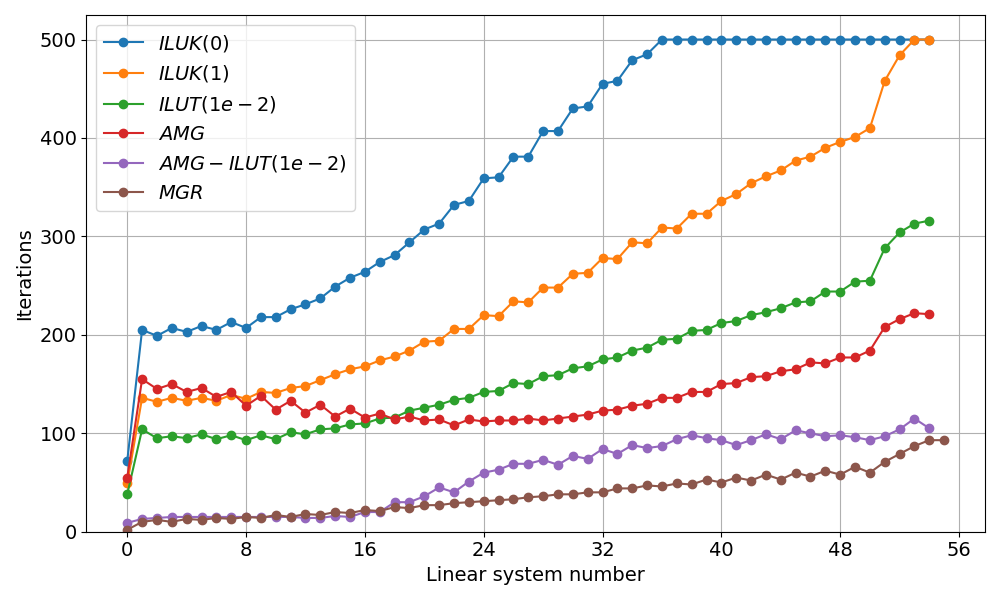
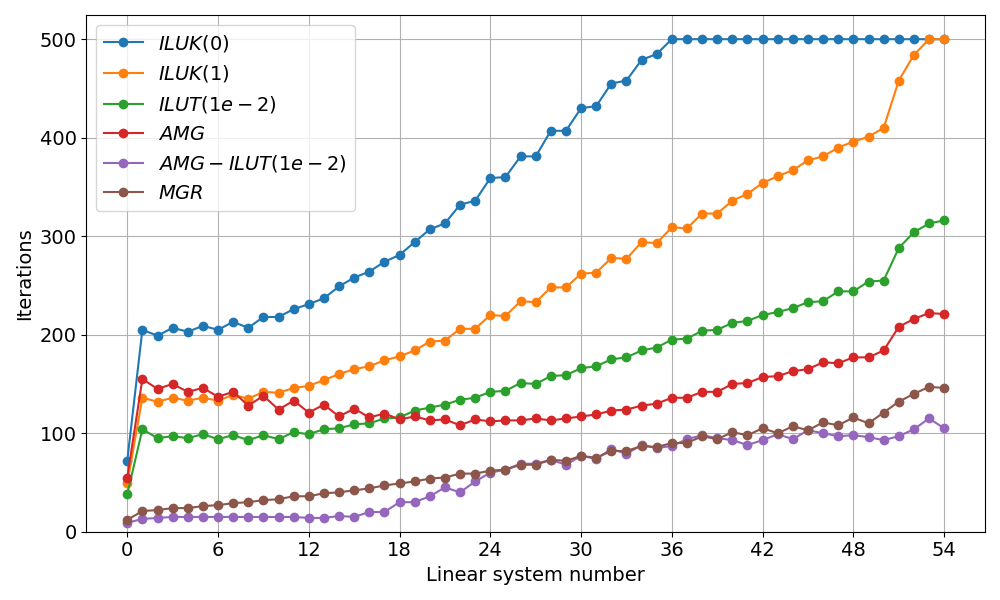
Misc fixes (#123)
* Fix documentation entry
* Fix rtol in test
* Fix lidcavity output

diff --git a/docs/usrman-src/library_examples.rst b/docs/usrman-src/library_examples.rst
@@ -1174,7 +1174,7 @@ linear systems. In this example, we provide a comparison script to evaluate diff
 
    ./reproduce.sh --solvers
 
-This script runs the simulation with five different solver configurations and
+This script runs the simulation with six different solver configurations and
 generates performance comparison plots. The tested configurations are stored in
 the ``examples/src/C_lidcavity/`` directory and are listed below:
 
